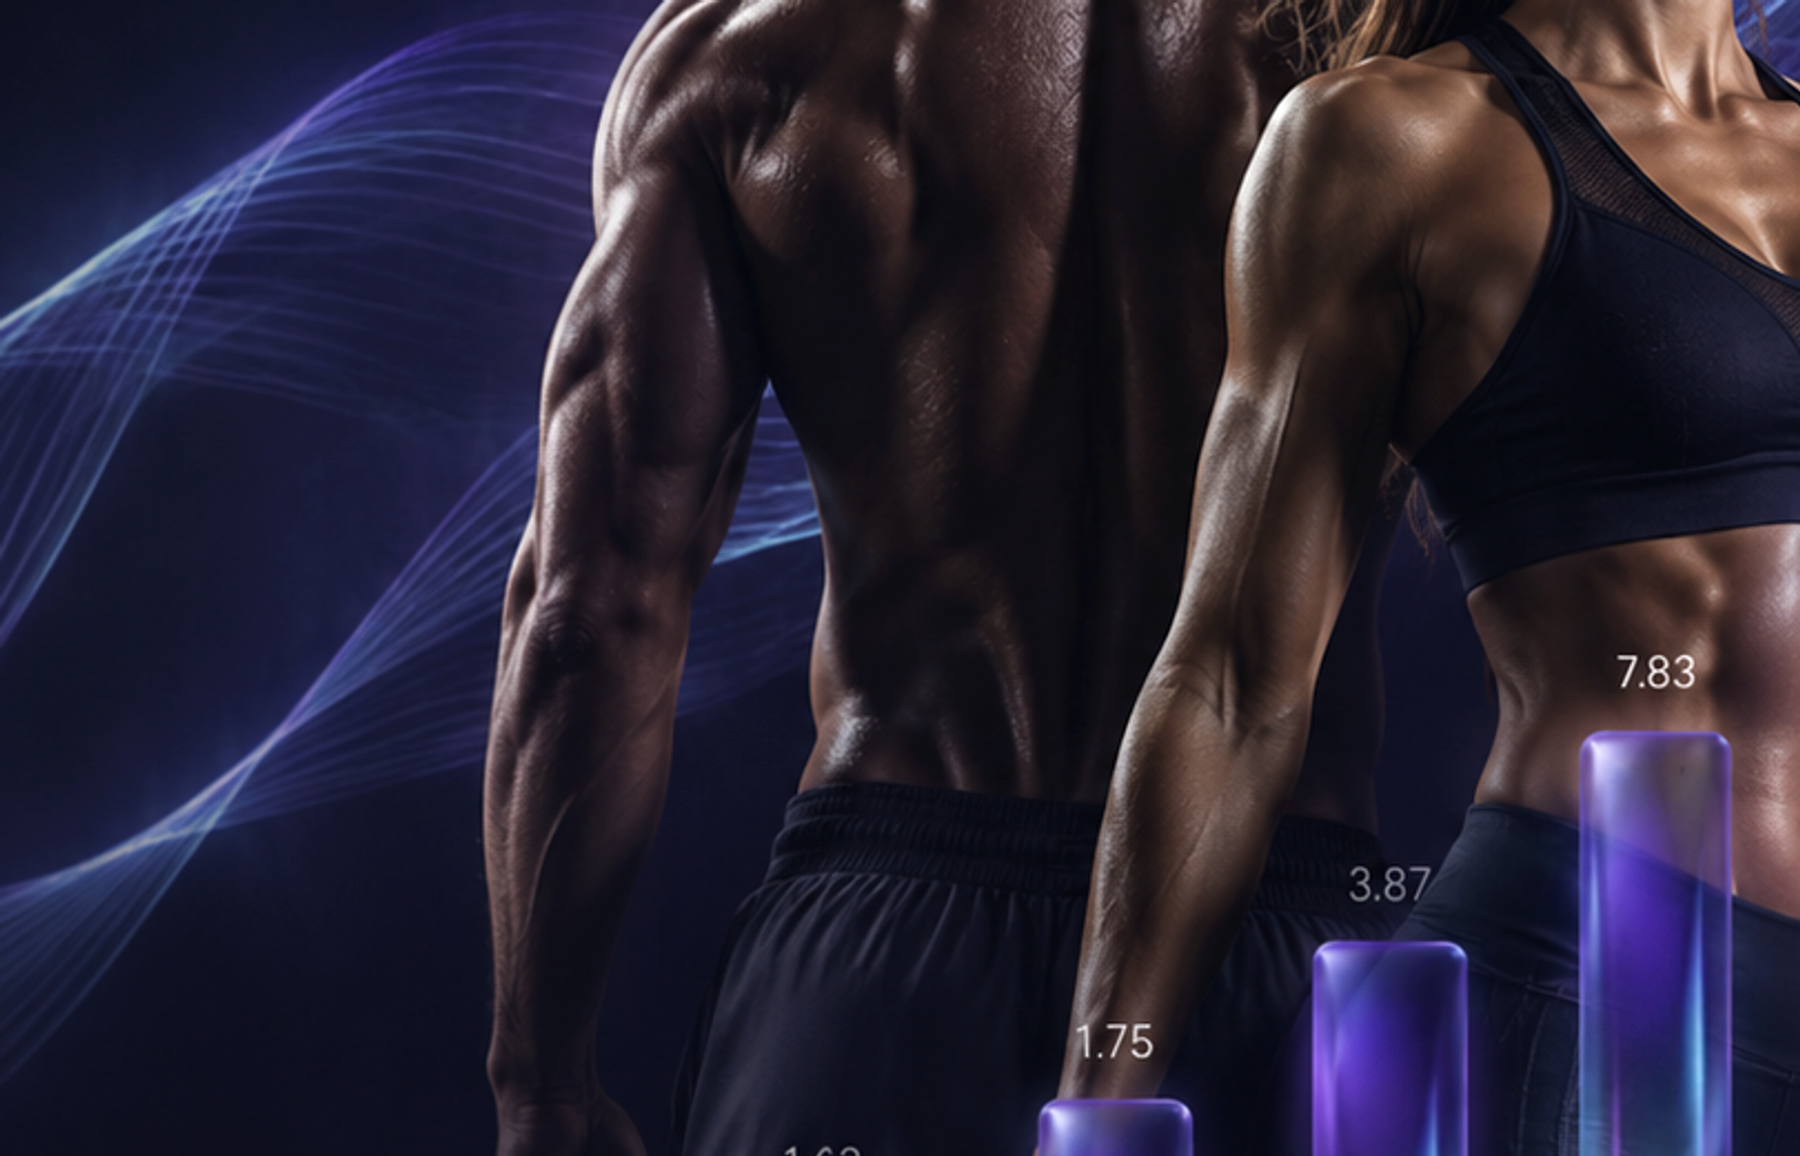
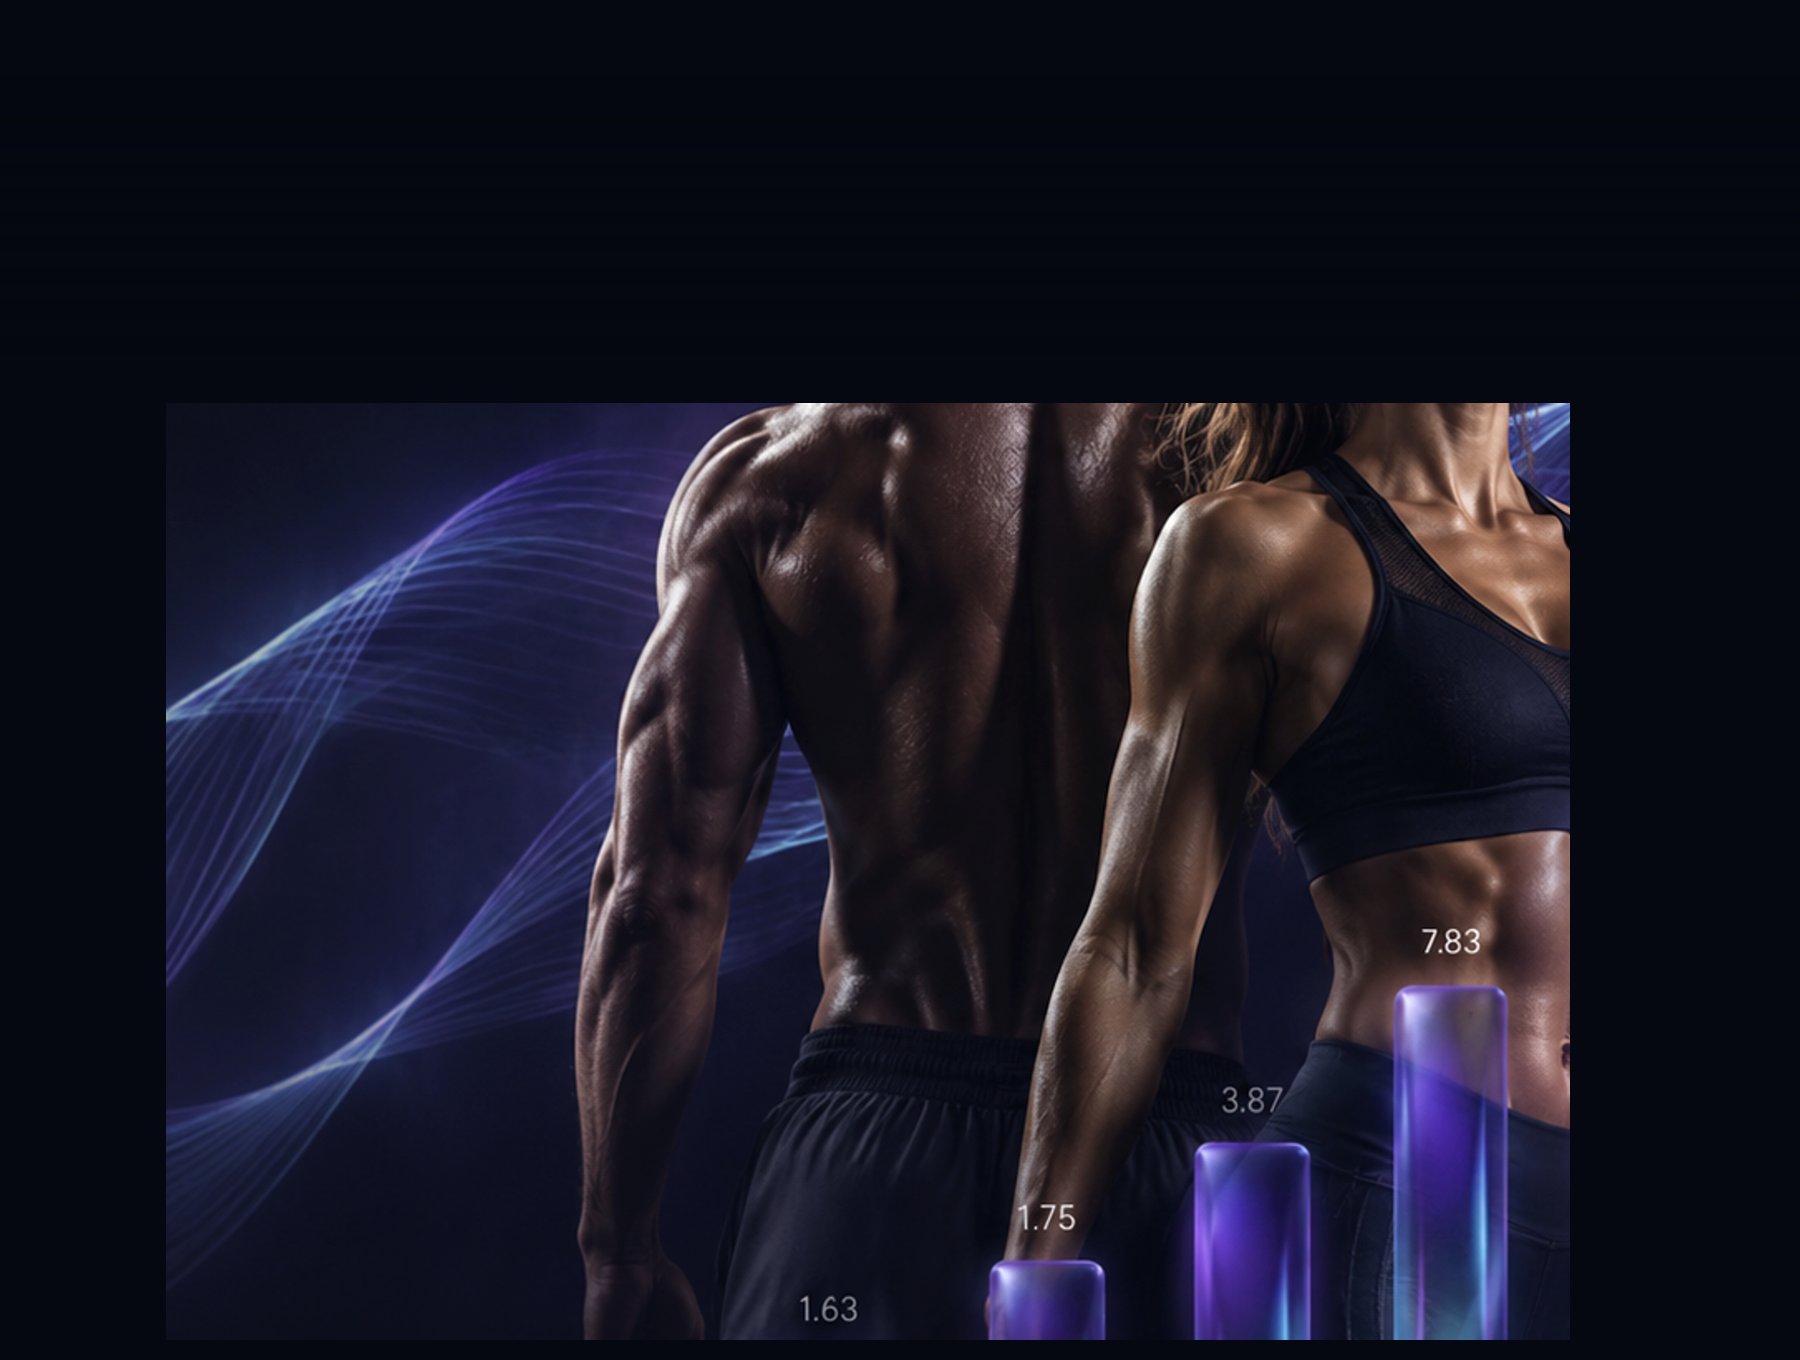
ajuste

diff --git a/src/styles/auth.css b/src/styles/auth.css
@@ -105,11 +105,11 @@
 @keyframes auth-cover-in {
   from {
     opacity: 0.55;
-    transform: scale(1.05);
+    transform: scale(calc(var(--auth-cover-scale, 0.94) + 0.04));
   }
   to {
     opacity: 1;
-    transform: scale(1.02);
+    transform: scale(var(--auth-cover-scale, 0.94));
   }
 }
 
@@ -410,11 +410,13 @@
   height: 100%;
   display: block;
   object-fit: cover;
-  /* Personagens + barras 3D; tipografia vem do HTML */
-  object-position: 48% 46%;
+  /* Homem centro-esquerda, mulher à direita; ar no topo para o título */
+  object-position: 46% 52%;
   max-height: none;
-  transform: scale(1.02);
-  transform-origin: 48% 44%;
+  --auth-cover-scale: 0.96;
+  /* Escala com origem baixa → gráfico menor embaixo, corpos longe do headline */
+  transform: scale(var(--auth-cover-scale));
+  transform-origin: 48% 88%;
   filter: brightness(1.05) contrast(1.04) saturate(1.06);
   pointer-events: none;
   user-select: none;
@@ -427,9 +429,9 @@
   z-index: 1;
   pointer-events: none;
   background:
-    linear-gradient(180deg, rgba(5, 7, 12, 0.58) 0%, rgba(5, 7, 12, 0.16) 16%, transparent 32%),
-    linear-gradient(0deg, rgba(5, 7, 12, 0.68) 0%, rgba(5, 7, 12, 0.2) 14%, transparent 30%),
-    linear-gradient(90deg, rgba(5, 7, 12, 0.42) 0%, rgba(5, 7, 12, 0.12) 26%, transparent 50%);
+    linear-gradient(180deg, rgba(5, 7, 12, 0.72) 0%, rgba(5, 7, 12, 0.28) 14%, transparent 30%),
+    linear-gradient(0deg, rgba(5, 7, 12, 0.62) 0%, rgba(5, 7, 12, 0.18) 12%, transparent 26%),
+    linear-gradient(90deg, rgba(5, 7, 12, 0.38) 0%, rgba(5, 7, 12, 0.1) 24%, transparent 48%);
 }
 
 .auth-split__vignette {
@@ -447,11 +449,11 @@
   z-index: 3;
   top: var(--auth-hero-pad);
   left: var(--auth-hero-pad);
-  width: min(480px, 58%);
+  width: min(460px, 54%);
   flex-direction: column;
   align-items: flex-start;
   flex: none;
-  gap: 1.1rem;
+  gap: 1rem;
   padding: 0;
   background: none;
   border-radius: 0;
@@ -497,20 +499,20 @@
   color: #c2ccd8;
 }
 
-/* Labels finos sob o gráfico 3D da capa */
+/* Labels finos sob o gráfico 3D (bottom-center / levemente à direita) */
 .auth-split__labels {
   display: none;
   position: absolute;
   z-index: 3;
-  left: 40%;
-  right: 11%;
-  bottom: 7.6%;
+  left: 42%;
+  right: 14%;
+  bottom: 6.2%;
   list-style: none;
   margin: 0;
   padding: 0;
   align-items: center;
   justify-content: space-between;
-  gap: 0.35rem;
+  gap: 0.3rem;
   pointer-events: none;
   animation: auth-hero-in 0.55s cubic-bezier(0.22, 1, 0.36, 1) 0.16s both;
 }
@@ -518,9 +520,9 @@
 .auth-split__labels li {
   flex: 1 1 0;
   text-align: center;
-  font-size: clamp(0.52rem, 0.7vw, 0.66rem);
+  font-size: clamp(0.48rem, 0.62vw, 0.6rem);
   font-weight: 750;
-  letter-spacing: 0.16em;
+  letter-spacing: 0.14em;
   color: rgba(248, 250, 252, 0.94);
   text-shadow: 0 1px 10px rgba(5, 7, 12, 0.7);
 }
@@ -866,7 +868,7 @@
   justify-content: center;
   gap: 0.55rem;
   border-radius: 12px;
-  border: 1px solid rgba(255, 255, 255, 0.55);
+  border: 1px solid rgba(255, 255, 255, 0.38);
   background: transparent;
   color: var(--auth-text, #f8fafc);
   font-size: 0.95rem;
@@ -876,7 +878,7 @@
 }
 
 .auth-btn-secondary:hover {
-  border-color: rgba(255, 255, 255, 0.85);
+  border-color: rgba(255, 255, 255, 0.62);
   background: rgba(255, 255, 255, 0.04);
   color: #fff;
 }
@@ -965,7 +967,9 @@
   }
 
   .auth-split__cover {
-    object-position: 46% 44%;
+    object-position: 44% 50%;
+    --auth-cover-scale: 0.95;
+    transform-origin: 48% 90%;
   }
 
   .auth-split__panel {
@@ -977,9 +981,9 @@
   }
 
   .auth-split__labels {
-    left: 38%;
-    right: 10%;
-    bottom: 7.2%;
+    left: 42%;
+    right: 14%;
+    bottom: 5.8%;
   }
 }
 
@@ -994,11 +998,13 @@
   }
 
   .auth-split__cover {
-    object-position: 44% 42%;
+    object-position: 42% 48%;
+    --auth-cover-scale: 0.94;
+    transform-origin: 46% 90%;
   }
 
   .auth-split__top {
-    width: min(500px, 54%);
+    width: min(500px, 52%);
     gap: 1.15rem;
   }
 
@@ -1007,9 +1013,9 @@
   }
 
   .auth-split__labels {
-    left: 36%;
-    right: 9%;
-    bottom: 6.8%;
+    left: 40%;
+    right: 12%;
+    bottom: 5%;
   }
 
   .auth-split__privacy {
@@ -1028,11 +1034,13 @@
 
 @media (min-width: 1440px) {
   .auth-split__cover {
-    object-position: 42% 40%;
+    object-position: 40% 46%;
+    --auth-cover-scale: 0.93;
+    transform-origin: 45% 92%;
   }
 
   .auth-split__top {
-    width: min(520px, 50%);
+    width: min(520px, 48%);
   }
 
   .auth-login-card {
@@ -1040,8 +1048,9 @@
   }
 
   .auth-split__labels {
-    left: 35%;
-    bottom: 6.5%;
+    left: 40%;
+    right: 12%;
+    bottom: 4.8%;
   }
 }
 
@@ -1065,11 +1074,15 @@
   }
 
   .auth-split__cover {
-    object-position: 46% 48%;
+    object-position: 46% 54%;
+    --auth-cover-scale: 0.94;
+    transform-origin: 48% 92%;
   }
 
   .auth-split__labels {
-    bottom: 6.2%;
+    bottom: 4.6%;
+    left: 38%;
+    right: 14%;
   }
 
   .auth-split__privacy {
@@ -1154,7 +1167,7 @@
   }
 
   .auth-split__cover {
-    transform: scale(1.02);
+    transform: scale(var(--auth-cover-scale, 0.94));
     transition: none;
   }
 }
